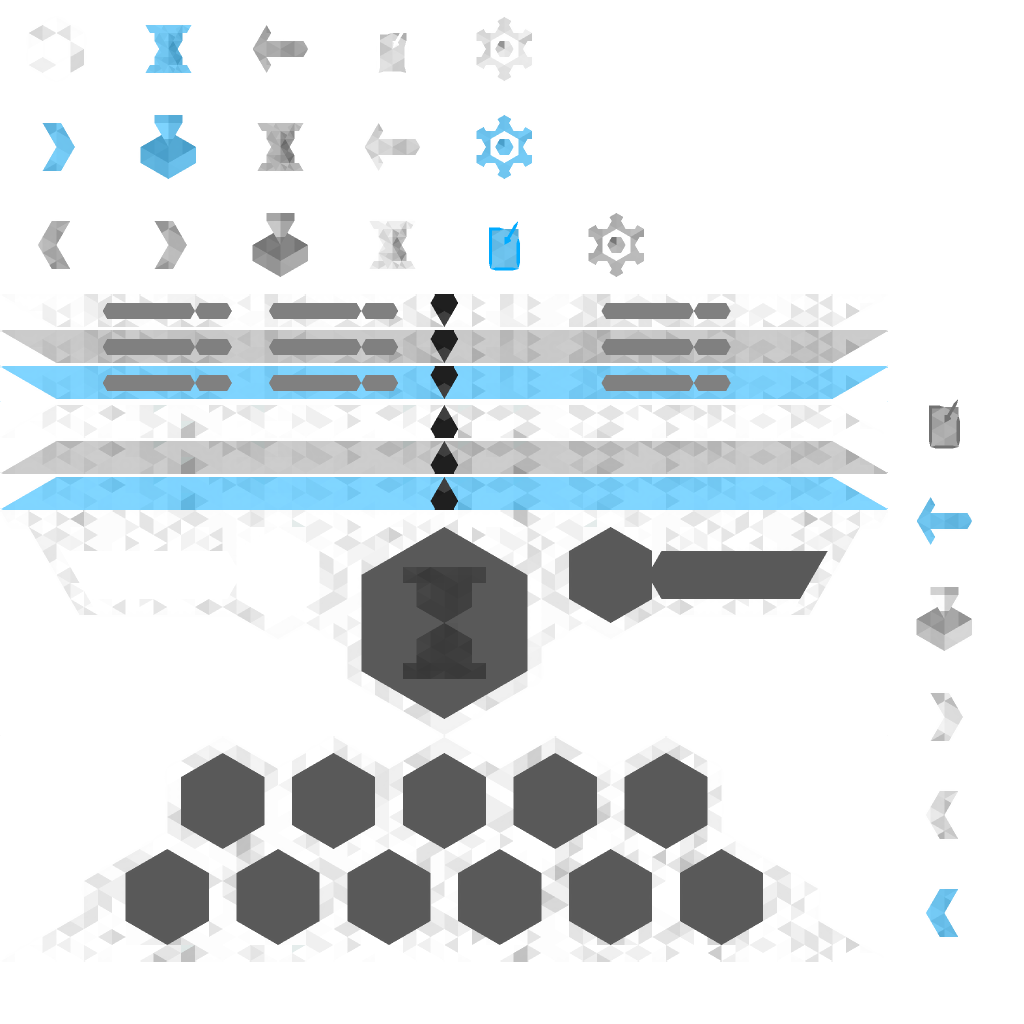
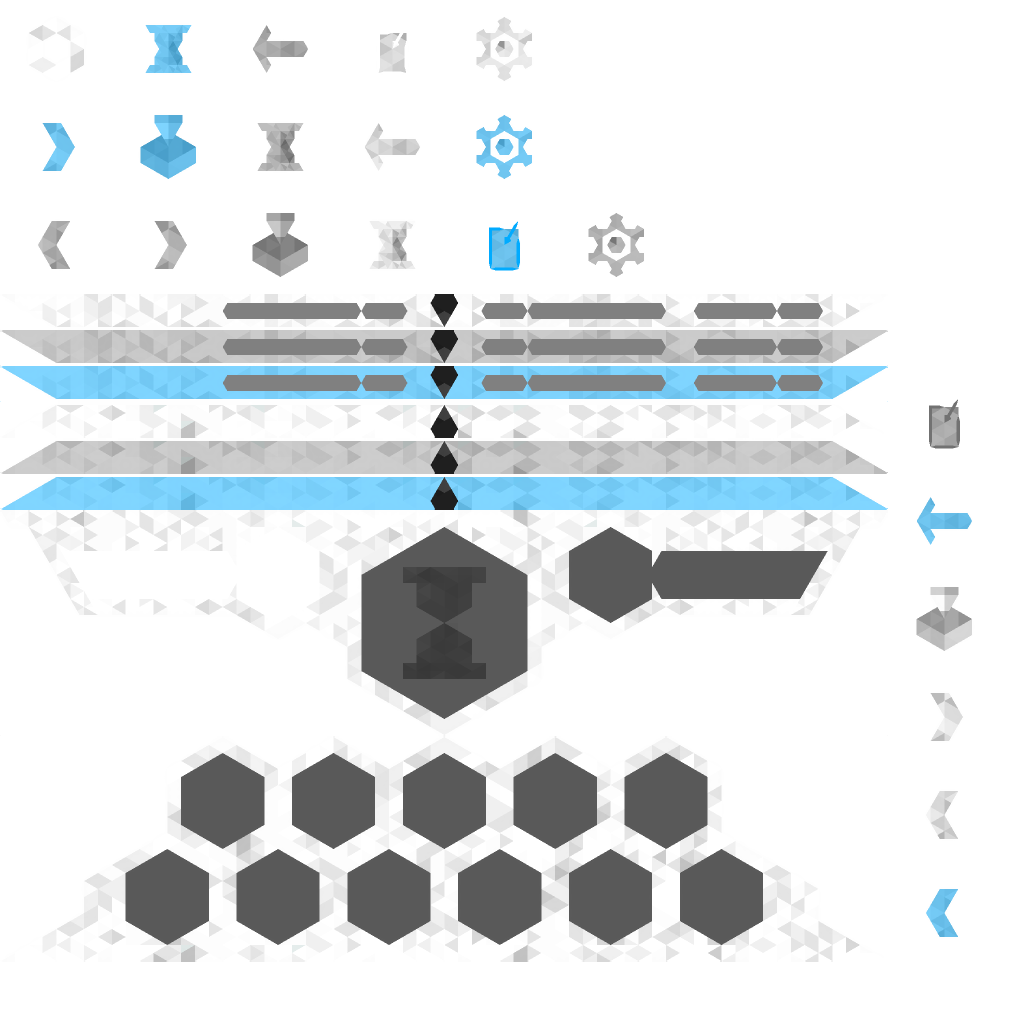
Updated the hexaframetop. Visibilty fixed.

diff --git a/core/main/java/com/ragego/gui/elements/HexaFrameTop.java b/core/main/java/com/ragego/gui/elements/HexaFrameTop.java
@@ -1,9 +1,7 @@
 package com.ragego.gui.elements;
 
-import com.badlogic.gdx.scenes.scene2d.InputEvent;
 import com.badlogic.gdx.scenes.scene2d.ui.*;
 import com.badlogic.gdx.scenes.scene2d.utils.Align;
-import com.badlogic.gdx.scenes.scene2d.utils.ClickListener;
 import com.ragego.gui.screens.GoGameScreen;
 
 /**
@@ -15,9 +13,9 @@ public class HexaFrameTop extends WidgetGroup {
 
     private boolean isHidden = true;
     private Skin hudSkin, uiSkin;
-    private Image hexaFrameTop;
-    private WidgetGroup frameTopVisibleGroup = new WidgetGroup();
-    private Button frameTopHiddenButton;
+    private Image hexaFrameImage;
+    private WidgetGroup frameVisibleGroup = new WidgetGroup();
+    private Button frameHiddenButton;
     private Label blackPrisonersNumberLabel, whitePrisonersNumberLabel, timeValueLabel,
             blackPrisonersNumberHiddenLabel, whitePrisonersNumberHiddenLabel, timeValueHiddenLabel,
             blackPrisonersHiddenLabel, whitePrisonersHiddenLabel, timeHiddenLabel;
@@ -26,24 +24,17 @@ public class HexaFrameTop extends WidgetGroup {
         super();
         this.hudSkin = hudSkin;
         this.uiSkin = uiSkin;
-        hexaFrameTop = new Image(hudSkin.getRegion(HEXA_FRAME_NAME));
-        setWidth(hexaFrameTop.getWidth());
-        setHeight(hexaFrameTop.getHeight());
+        hexaFrameImage = new Image(hudSkin.getRegion(HEXA_FRAME_NAME));
+        setWidth(hexaFrameImage.getWidth());
+        setHeight(hexaFrameImage.getHeight());
 
-        frameTopHiddenButton = new Button(hudSkin, "frame_top_hidden");
-        /*frameTopHiddenButton.addListener(new ClickListener() {
-            @Override
-            public void clicked(InputEvent event, float x, float y) {
-                hide(false);
-            }
-        });*/
-        //frameTopHiddenButton.setSize(getPrefWidth(), getPrefHeight());
-        frameTopHiddenButton.setPosition(0, hexaFrameTop.getHeight() - frameTopHiddenButton.getHeight());
+        frameHiddenButton = new Button(hudSkin, "frame_top_hidden");
+        frameHiddenButton.setPosition(0, hexaFrameImage.getHeight() - frameHiddenButton.getHeight());
 
-        frameTopVisibleGroup.addActor(hexaFrameTop);
+        frameVisibleGroup.addActor(hexaFrameImage);
         addLabels();
-        addActor(frameTopVisibleGroup);
-        addActor(frameTopHiddenButton);
+        addActor(frameVisibleGroup);
+        addActor(frameHiddenButton);
     }
 
     /**
@@ -62,27 +53,27 @@ public class HexaFrameTop extends WidgetGroup {
         whitePrisonersHiddenLabel = new Label("White prisoners", uiSkin);
         timeHiddenLabel = new Label("Time", uiSkin);
 
-        blackPrisonersNumberLabel.setWidth(hexaFrameTop.getWidth() * 4 / 64);
-        whitePrisonersNumberLabel.setWidth(hexaFrameTop.getWidth() * 4 / 64);
-        timeValueLabel.setWidth(hexaFrameTop.getWidth() * 10 / 64);
+        blackPrisonersNumberLabel.setWidth(hexaFrameImage.getWidth() * 4 / 64);
+        whitePrisonersNumberLabel.setWidth(hexaFrameImage.getWidth() * 4 / 64);
+        timeValueLabel.setWidth(hexaFrameImage.getWidth() * 10 / 64);
 
-        blackPrisonersNumberHiddenLabel.setWidth(frameTopHiddenButton.getWidth() * 2.5f / 64);
-        whitePrisonersNumberHiddenLabel.setWidth(frameTopHiddenButton.getWidth() * 2.5f / 64);
-        timeValueHiddenLabel.setWidth(frameTopHiddenButton.getWidth() * 2.5f / 64);
-        blackPrisonersHiddenLabel.setWidth(frameTopHiddenButton.getWidth() * 6.5f / 64);
-        whitePrisonersHiddenLabel.setWidth(frameTopHiddenButton.getWidth() * 6.5f / 64);
-        timeHiddenLabel.setWidth(frameTopHiddenButton.getWidth() * 6.5f / 64);
+        blackPrisonersNumberHiddenLabel.setWidth(frameHiddenButton.getWidth() * 2.5f / 64);
+        whitePrisonersNumberHiddenLabel.setWidth(frameHiddenButton.getWidth() * 2.5f / 64);
+        timeValueHiddenLabel.setWidth(frameHiddenButton.getWidth() * 2.5f / 64);
+        blackPrisonersHiddenLabel.setWidth(frameHiddenButton.getWidth() * 6.5f / 64);
+        whitePrisonersHiddenLabel.setWidth(frameHiddenButton.getWidth() * 6.5f / 64);
+        timeHiddenLabel.setWidth(frameHiddenButton.getWidth() * 6.5f / 64);
 
         blackPrisonersNumberLabel.setFontScale(0.5f);
         whitePrisonersNumberLabel.setFontScale(0.5f);
         timeValueLabel.setFontScale(1.3f);
 
-        blackPrisonersNumberHiddenLabel.setFontScale(0.2f);
-        whitePrisonersNumberHiddenLabel.setFontScale(0.2f);
-        timeValueHiddenLabel.setFontScale(0.2f);
-        blackPrisonersHiddenLabel.setFontScale(0.2f);
-        whitePrisonersHiddenLabel.setFontScale(0.2f);
-        timeHiddenLabel.setFontScale(0.2f);
+        blackPrisonersNumberHiddenLabel.setFontScale(0.32f);
+        whitePrisonersNumberHiddenLabel.setFontScale(0.32f);
+        timeValueHiddenLabel.setFontScale(0.32f);
+        blackPrisonersHiddenLabel.setFontScale(0.32f);
+        whitePrisonersHiddenLabel.setFontScale(0.32f);
+        timeHiddenLabel.setFontScale(0.32f);
 
         blackPrisonersNumberLabel.setAlignment(Align.center, Align.center);
         whitePrisonersNumberLabel.setAlignment(Align.center, Align.center);
@@ -95,36 +86,36 @@ public class HexaFrameTop extends WidgetGroup {
         whitePrisonersHiddenLabel.setAlignment(Align.center, Align.center);
         timeHiddenLabel.setAlignment(Align.center, Align.center);
 
-        blackPrisonersNumberLabel.setPosition(hexaFrameTop.getWidth() * 20 / 64 - blackPrisonersNumberLabel.getWidth() * 0.5f + 4,
-                hexaFrameTop.getHeight() * 10 / 14 - blackPrisonersNumberLabel.getHeight() * 0.5f);
-        whitePrisonersNumberLabel.setPosition(hexaFrameTop.getWidth() * 44 / 64 - whitePrisonersNumberLabel.getWidth() * 0.5f + 4,
-                hexaFrameTop.getHeight() * 10 / 14 - whitePrisonersNumberLabel.getHeight() * 0.5f);
-        timeValueLabel.setPosition(hexaFrameTop.getWidth() * 0.5f - timeValueLabel.getWidth() * 0.5f + 5,
-                hexaFrameTop.getHeight() * 0.5f - timeValueLabel.getHeight() * 0.5f);
+        blackPrisonersNumberLabel.setPosition(hexaFrameImage.getWidth() * 20 / 64 - blackPrisonersNumberLabel.getWidth() * 0.5f + 4,
+                hexaFrameImage.getHeight() * 10 / 14 - blackPrisonersNumberLabel.getHeight() * 0.5f);
+        whitePrisonersNumberLabel.setPosition(hexaFrameImage.getWidth() * 44 / 64 - whitePrisonersNumberLabel.getWidth() * 0.5f + 4,
+                hexaFrameImage.getHeight() * 10 / 14 - whitePrisonersNumberLabel.getHeight() * 0.5f);
+        timeValueLabel.setPosition(hexaFrameImage.getWidth() * 0.5f - timeValueLabel.getWidth() * 0.5f + 5,
+                hexaFrameImage.getHeight() * 0.5f - timeValueLabel.getHeight() * 0.5f);
 
-        blackPrisonersNumberHiddenLabel.setPosition(frameTopHiddenButton.getWidth() * 15.25f / 64 - blackPrisonersNumberHiddenLabel.getWidth() * 0.5f,
-                frameTopHiddenButton.getHeight() * 0.5f - blackPrisonersNumberHiddenLabel.getHeight() * 0.5f);
-        whitePrisonersNumberHiddenLabel.setPosition(frameTopHiddenButton.getWidth() * 27.25f / 64 - whitePrisonersNumberHiddenLabel.getWidth() * 0.5f,
-                frameTopHiddenButton.getHeight() * 0.5f - whitePrisonersNumberHiddenLabel.getHeight() * 0.5f);
-        timeValueHiddenLabel.setPosition(frameTopHiddenButton.getWidth() * 51.25f / 64 - timeValueHiddenLabel.getWidth() * 0.5f,
-                frameTopHiddenButton.getHeight() * 0.5f - timeValueHiddenLabel.getHeight() * 0.5f);
-        blackPrisonersHiddenLabel.setPosition(frameTopHiddenButton.getWidth() * 10.75f / 64 - blackPrisonersHiddenLabel.getWidth() * 0.5f,
-                frameTopHiddenButton.getHeight() * 0.5f - blackPrisonersHiddenLabel.getHeight() * 0.5f);
-        whitePrisonersHiddenLabel.setPosition(frameTopHiddenButton.getWidth() * 22.75f / 64 - whitePrisonersHiddenLabel.getWidth() * 0.5f,
-                frameTopHiddenButton.getHeight() * 0.5f - whitePrisonersHiddenLabel.getHeight() * 0.5f);
-        timeHiddenLabel.setPosition(frameTopHiddenButton.getWidth() * 46.75f / 64 - timeHiddenLabel.getWidth() * 0.5f,
-                frameTopHiddenButton.getHeight() * 0.5f - timeHiddenLabel.getHeight() * 0.5f);
+        blackPrisonersNumberHiddenLabel.setPosition(frameHiddenButton.getWidth() * 27.625f / 64 - blackPrisonersNumberHiddenLabel.getWidth() * 0.5f,
+                frameHiddenButton.getHeight() * 0.5f - blackPrisonersNumberHiddenLabel.getHeight() * 0.5f + 2);
+        whitePrisonersNumberHiddenLabel.setPosition(frameHiddenButton.getWidth() * 36.375f / 64 - whitePrisonersNumberHiddenLabel.getWidth() * 0.5f,
+                frameHiddenButton.getHeight() * 0.5f - whitePrisonersNumberHiddenLabel.getHeight() * 0.5f + 2);
+        timeValueHiddenLabel.setPosition(frameHiddenButton.getWidth() * 57.625f / 64 - timeValueHiddenLabel.getWidth() * 0.5f,
+                frameHiddenButton.getHeight() * 0.5f - timeValueHiddenLabel.getHeight() * 0.5f + 2);
+        blackPrisonersHiddenLabel.setPosition(frameHiddenButton.getWidth() * 16 / 64 - blackPrisonersHiddenLabel.getWidth() * 0.5f,
+                frameHiddenButton.getHeight() * 0.5f - blackPrisonersHiddenLabel.getHeight() * 0.5f + 2);
+        whitePrisonersHiddenLabel.setPosition(frameHiddenButton.getWidth() * 43 / 64 - whitePrisonersHiddenLabel.getWidth() * 0.5f,
+                frameHiddenButton.getHeight() * 0.5f - whitePrisonersHiddenLabel.getHeight() * 0.5f + 2);
+        timeHiddenLabel.setPosition(frameHiddenButton.getWidth() * 53 / 64 - timeHiddenLabel.getWidth() * 0.5f,
+                frameHiddenButton.getHeight() * 0.5f - timeHiddenLabel.getHeight() * 0.5f + 2);
 
-        frameTopVisibleGroup.addActor(blackPrisonersNumberLabel);
-        frameTopVisibleGroup.addActor(whitePrisonersNumberLabel);
-        frameTopVisibleGroup.addActor(timeValueLabel);
+        frameVisibleGroup.addActor(blackPrisonersNumberLabel);
+        frameVisibleGroup.addActor(whitePrisonersNumberLabel);
+        frameVisibleGroup.addActor(timeValueLabel);
 
-        frameTopHiddenButton.addActor(blackPrisonersNumberHiddenLabel);
-        frameTopHiddenButton.addActor(whitePrisonersNumberHiddenLabel);
-        frameTopHiddenButton.addActor(timeValueHiddenLabel);
-        frameTopHiddenButton.addActor(blackPrisonersHiddenLabel);
-        frameTopHiddenButton.addActor(whitePrisonersHiddenLabel);
-        frameTopHiddenButton.addActor(timeHiddenLabel);
+        frameHiddenButton.addActor(blackPrisonersNumberHiddenLabel);
+        frameHiddenButton.addActor(whitePrisonersNumberHiddenLabel);
+        frameHiddenButton.addActor(timeValueHiddenLabel);
+        frameHiddenButton.addActor(blackPrisonersHiddenLabel);
+        frameHiddenButton.addActor(whitePrisonersHiddenLabel);
+        frameHiddenButton.addActor(timeHiddenLabel);
     }
 
     /**
@@ -158,15 +149,15 @@ public class HexaFrameTop extends WidgetGroup {
     public void hide(boolean state) {
         isHidden = state;
         if (isHidden) {
-            frameTopVisibleGroup.setVisible(false);
-            frameTopHiddenButton.setVisible(true);
+            frameVisibleGroup.setVisible(false);
+            frameHiddenButton.setVisible(true);
         } else {
-            frameTopVisibleGroup.setVisible(true);
-            frameTopHiddenButton.setVisible(false);
+            frameVisibleGroup.setVisible(true);
+            frameHiddenButton.setVisible(false);
         }
     }
 
     public Button getHiddenButton() {
-        return frameTopHiddenButton;
+        return frameHiddenButton;
     }
 }

diff --git a/core/main/java/com/ragego/gui/elements/HexaFrameBottom.java b/core/main/java/com/ragego/gui/elements/HexaFrameBottom.java
@@ -1,9 +1,12 @@
 package com.ragego.gui.elements;
 
 import com.badlogic.gdx.math.Vector2;
+import com.badlogic.gdx.scenes.scene2d.InputEvent;
+import com.badlogic.gdx.scenes.scene2d.ui.Button;
 import com.badlogic.gdx.scenes.scene2d.ui.Image;
 import com.badlogic.gdx.scenes.scene2d.ui.Skin;
 import com.badlogic.gdx.scenes.scene2d.ui.WidgetGroup;
+import com.badlogic.gdx.scenes.scene2d.utils.ClickListener;
 import com.ragego.gui.screens.GoGameScreen;
 
 import java.util.HashMap;
@@ -16,17 +19,32 @@ public class HexaFrameBottom extends WidgetGroup {
     private static final int BUTTONS_NB = 11;
     private final static String HEXA_FRAME_NAME = "frame_bottom";
 
+    private boolean isHidden = true;
     private Skin hudSkin;
-    private Image hexaFrameBottomImage;
+    private Image hexaFrameImage;
+    private WidgetGroup frameVisibleGroup = new WidgetGroup();
+    private Button frameHiddenButton;
     private HashMap<Integer, HexaFrameBottomButton> buttons = new HashMap<Integer, HexaFrameBottomButton>(BUTTONS_NB);
 
     public HexaFrameBottom(Skin hudSkin) {
         super();
         this.hudSkin = hudSkin;
-        hexaFrameBottomImage = new Image(hudSkin.getRegion(HEXA_FRAME_NAME));
-        setWidth(hexaFrameBottomImage.getWidth());
-        setHeight(hexaFrameBottomImage.getHeight());
-        addActor(hexaFrameBottomImage);
+        hexaFrameImage = new Image(hudSkin.getRegion(HEXA_FRAME_NAME));
+        setWidth(hexaFrameImage.getWidth());
+        setHeight(hexaFrameImage.getHeight());
+
+        frameHiddenButton = new Button(hudSkin, "frame_bottom_hidden");
+        frameHiddenButton.addListener(new ClickListener() {
+            @Override
+            public void clicked(InputEvent event, float x, float y) {
+                hide(false);
+            }
+        });
+        frameHiddenButton.setPosition(0, 0);
+
+        frameVisibleGroup.addActor(hexaFrameImage);
+        addActor(frameVisibleGroup);
+        addActor(frameHiddenButton);
     }
 
     /**
@@ -36,7 +54,7 @@ public class HexaFrameBottom extends WidgetGroup {
      */
     public void addButton(HexaFrameBottomButton button) {
         buttons.put(button.getPosition(), button);
-        this.addActor(button);
+        frameVisibleGroup.addActor(button);
     }
 
     /**
@@ -48,11 +66,11 @@ public class HexaFrameBottom extends WidgetGroup {
      */
     public Vector2 getCoordinateFor(int position) {
         Vector2 coordinates = new Vector2(0, 0);
-        coordinates.x += hexaFrameBottomImage.getWidth() * (position + 2) / (BUTTONS_NB + 5);
+        coordinates.x += hexaFrameImage.getWidth() * (position + 2) / (BUTTONS_NB + 5);
         if (position % 2 == 0)
-            coordinates.y += hexaFrameBottomImage.getHeight() * 5 / 7;
+            coordinates.y += hexaFrameImage.getHeight() * 5 / 7;
         else
-            coordinates.y += hexaFrameBottomImage.getHeight() * 2 / 7;
+            coordinates.y += hexaFrameImage.getHeight() * 2 / 7;
         return coordinates;
     }
 
@@ -63,5 +81,20 @@ public class HexaFrameBottom extends WidgetGroup {
      */
     public Skin getHudSkin() {
         return hudSkin;
+    }
+
+    public void hide(boolean state) {
+        isHidden = state;
+        if (isHidden) {
+            frameVisibleGroup.setVisible(false);
+            frameHiddenButton.setVisible(true);
+        } else {
+            frameVisibleGroup.setVisible(true);
+            frameHiddenButton.setVisible(false);
+        }
+    }
+
+    public Button getHiddenButton() {
+        return frameHiddenButton;
     }
 }

diff --git a/core/main/java/com/ragego/gui/screens/GoGameScreen.java b/core/main/java/com/ragego/gui/screens/GoGameScreen.java
@@ -327,11 +327,8 @@ public abstract class GoGameScreen extends ScreenAdapter implements MusicalScree
                 showHud();
             }
         };
-        frameBottomHiddenButton.addListener(hudButtonClickListener);
+        hexaFrameBottom.getHiddenButton().addListener(hudButtonClickListener);
         hexaFrameTop.getHiddenButton().addListener(hudButtonClickListener);
-        frameBottomHiddenButton.setPosition((hudViewport.getScreenWidth() - frameBottomHiddenButton.getWidth()) * 0.5f, 0);
-
-        hudStage.addActor(frameBottomHiddenButton);
     }
 
     /**
@@ -353,8 +350,7 @@ public abstract class GoGameScreen extends ScreenAdapter implements MusicalScree
     void showHud() {
         if (hudVisible) {
             hexaFrameTop.hide(false);
-            hexaFrameBottom.setVisible(hudVisible);
-            frameBottomHiddenButton.setVisible(!hudVisible);
+            hexaFrameBottom.hide(false);
         }
     }
 
@@ -374,8 +370,7 @@ public abstract class GoGameScreen extends ScreenAdapter implements MusicalScree
         if (hudVisible || force) {
             hudVisible = false;
             hexaFrameTop.hide(true);
-            hexaFrameBottom.setVisible(hudVisible);
-            frameBottomHiddenButton.setVisible(!hudVisible);
+            hexaFrameBottom.hide(true);
         }
     }
 
